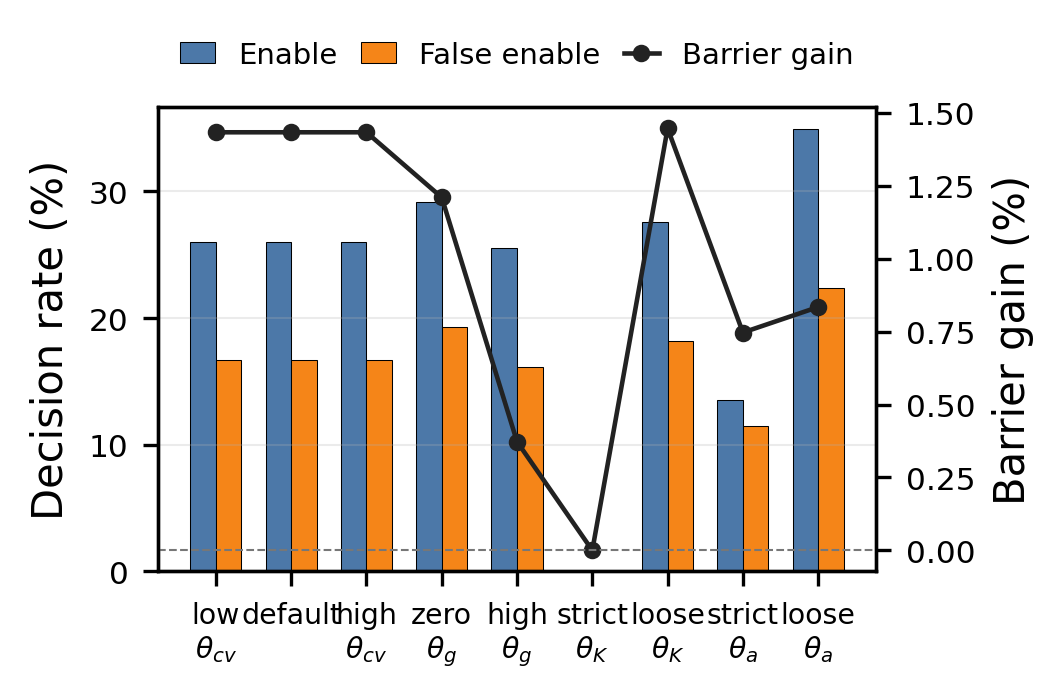
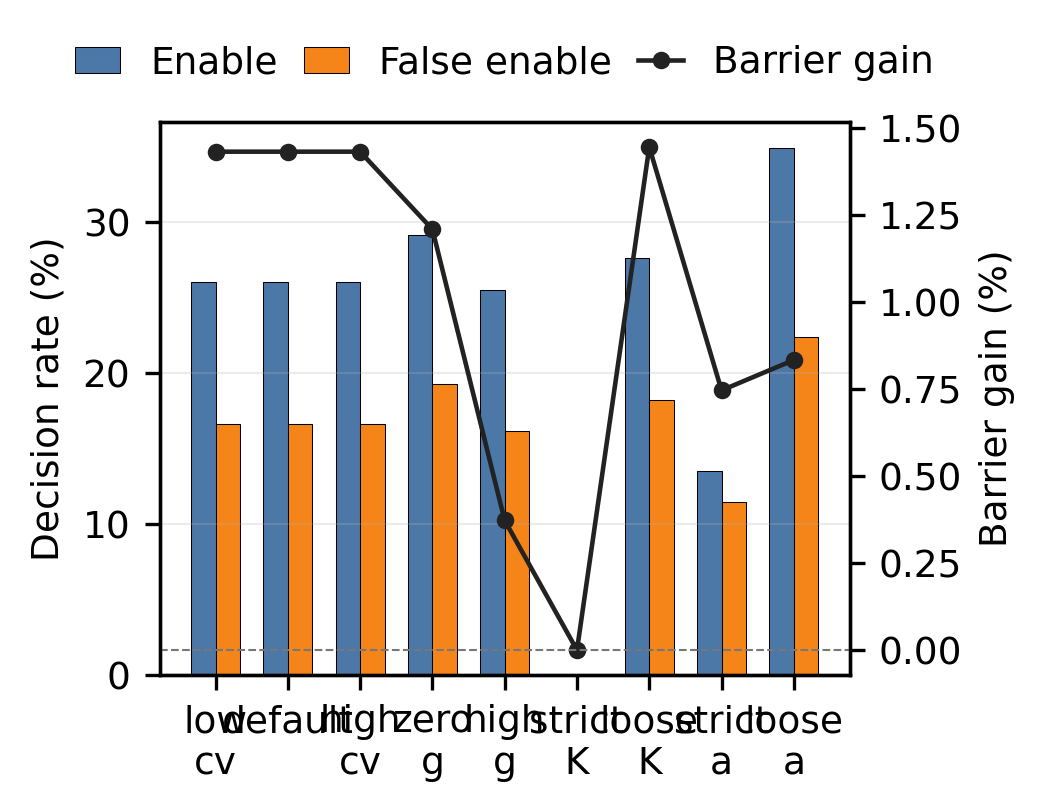
Raise paper table and figure fonts

Changed region(s): [[0.0306, 0.1203, 0.9799, 0.9628], [0.0612, 0.0602, 0.888, 0.0903], [0.3062, 0.4513, 0.3368, 0.4814]]

diff --git a/paper/socc26/sections/evaluation.tex b/paper/socc26/sections/evaluation.tex
@@ -22,81 +22,53 @@ success.
 
 \begin{table*}[t]
   \centering
-  \scriptsize
-  \renewcommand{\arraystretch}{0.93}
-  \setlength{\tabcolsep}{1.0pt}
   \caption{Main external comparison.}
   \label{tab:external-main}
-  \begin{tabular}{@{}llrrrrrrrrrrrr@{}}
+  \begin{tabular*}{\textwidth}{@{\extracolsep{\fill}}lllrrrrrr@{}}
     \toprule
-    Runtime & Metric &
-    \multicolumn{4}{c}{W8} &
-    \multicolumn{4}{c}{W16} &
-    \multicolumn{4}{c}{W24} \\
-    \cmidrule(lr){3-6}\cmidrule(lr){7-10}\cmidrule(l){11-14}
-    & & SFCL & RLTune & Sailor & \textsc{G-port}
-      & SFCL & RLTune & Sailor & \textsc{G-port}
-      & SFCL & RLTune & Sailor & \textsc{G-port} \\
+    Runtime & Workers & Method & Mean & p95 & Thr. & Post & Cancel & Succ. \\
+            &         &        & (ms) & (ms) & (iter/s) & rows & (ms) & \\
     \midrule
-    TCP & Mean (ms) & 44.0 & 48.2 & 53.9 & \textbf{40.9}
-        & 38.3 & 36.4 & \textbf{35.3} & 36.6
-        & 47.5 & 48.3 & 44.3 & \textbf{43.7} \\
-    TCP & p95 (ms) & 80.5 & 76.6 & 77.8 & \textbf{71.5}
-        & \textbf{48.3} & 59.1 & 59.5 & 60.0
-        & 62.3 & \textbf{59.9} & 61.1 & 61.1 \\
-    TCP & Thr. (iter/s) & 22.7 & 20.8 & 18.6 & \textbf{24.4}
-        & 26.1 & 27.4 & \textbf{28.3} & 27.4
-        & 21.1 & 20.7 & 22.6 & \textbf{22.9} \\
-    TCP & Post rows & 1.8 & 0.1 & 0.0 & 1.6
-        & 10.4 & 1.4 & 0.0 & 4.1
-        & 21.9 & 2.8 & 0.0 & 1.7 \\
-    TCP & Cancel (ms) & 16.8 & 16.5 & 19.2 & 14.1
-        & 16.5 & 16.5 & 16.3 & 16.9
-        & 21.4 & 24.2 & 21.8 & 20.5 \\
-    TCP & Succ. & 1.00 & 1.00 & 1.00 & 1.00
-        & 1.00 & 1.00 & 1.00 & 1.00
-        & 1.00 & 1.00 & 1.00 & 1.00 \\
+    TCP & W8 & SFCL & 44.0 & 80.5 & 22.7 & 1.8 & 16.8 & 1.00 \\
+        &    & RLTune & 48.2 & 76.6 & 20.8 & 0.1 & 16.5 & 1.00 \\
+        &    & Sailor & 53.9 & 77.8 & 18.6 & 0.0 & 19.2 & 1.00 \\
+        &    & \textsc{G-port} & \textbf{40.9} & \textbf{71.5} & \textbf{24.4} & 1.6 & 14.1 & 1.00 \\
+        & W16 & SFCL & 38.3 & \textbf{48.3} & 26.1 & 10.4 & 16.5 & 1.00 \\
+        &     & RLTune & 36.4 & 59.1 & 27.4 & 1.4 & 16.5 & 1.00 \\
+        &     & Sailor & \textbf{35.3} & 59.5 & \textbf{28.3} & 0.0 & 16.3 & 1.00 \\
+        &     & \textsc{G-port} & 36.6 & 60.0 & 27.4 & 4.1 & 16.9 & 1.00 \\
+        & W24 & SFCL & 47.5 & 62.3 & 21.1 & 21.9 & 21.4 & 1.00 \\
+        &     & RLTune & 48.3 & \textbf{59.9} & 20.7 & 2.8 & 24.2 & 1.00 \\
+        &     & Sailor & 44.3 & 61.1 & 22.6 & 0.0 & 21.8 & 1.00 \\
+        &     & \textsc{G-port} & \textbf{43.7} & 61.1 & \textbf{22.9} & 1.7 & 20.5 & 1.00 \\
     \midrule
-    TCP+stress & Mean (ms) & 49.4 & 55.6 & 56.3 & \textbf{48.4}
-        & 53.2 & 53.1 & 53.3 & \textbf{53.1}
-        & 60.9 & 65.4 & 55.5 & \textbf{53.9} \\
-    TCP+stress & p95 (ms) & 88.6 & 86.0 & 89.9 & \textbf{73.9}
-        & \textbf{71.0} & 77.0 & 71.2 & 83.9
-        & 93.3 & 137.5 & 67.6 & \textbf{61.2} \\
-    TCP+stress & Thr. (iter/s) & 20.2 & 18.0 & 17.8 & \textbf{20.7}
-        & 18.8 & 18.8 & 18.7 & \textbf{18.8}
-        & 16.4 & 15.3 & 18.0 & \textbf{18.5} \\
-    TCP+stress & Post rows & 1.4 & 0.3 & 0.0 & 1.6
-        & 9.8 & 1.5 & 0.0 & 0.0
-        & 21.0 & 4.1 & 0.0 & 0.0 \\
-    TCP+stress & Cancel (ms) & 15.2 & 17.1 & 15.8 & 15.2
-        & 23.6 & 22.5 & 22.2 & 22.2
-        & 27.2 & 29.8 & 23.9 & 23.7 \\
-    TCP+stress & Succ. & 1.00 & 1.00 & 1.00 & 1.00
-        & 1.00 & 1.00 & 1.00 & 1.00
-        & 1.00 & 1.00 & 1.00 & 1.00 \\
+    TCP+stress & W8 & SFCL & 49.4 & 88.6 & 20.2 & 1.4 & 15.2 & 1.00 \\
+        &    & RLTune & 55.6 & 86.0 & 18.0 & 0.3 & 17.1 & 1.00 \\
+        &    & Sailor & 56.3 & 89.9 & 17.8 & 0.0 & 15.8 & 1.00 \\
+        &    & \textsc{G-port} & \textbf{48.4} & \textbf{73.9} & \textbf{20.7} & 1.6 & 15.2 & 1.00 \\
+        & W16 & SFCL & 53.2 & \textbf{71.0} & 18.8 & 9.8 & 23.6 & 1.00 \\
+        &     & RLTune & 53.1 & 77.0 & 18.8 & 1.5 & 22.5 & 1.00 \\
+        &     & Sailor & 53.3 & 71.2 & 18.7 & 0.0 & 22.2 & 1.00 \\
+        &     & \textsc{G-port} & \textbf{53.1} & 83.9 & \textbf{18.8} & 0.0 & 22.2 & 1.00 \\
+        & W24 & SFCL & 60.9 & 93.3 & 16.4 & 21.0 & 27.2 & 1.00 \\
+        &     & RLTune & 65.4 & 137.5 & 15.3 & 4.1 & 29.8 & 1.00 \\
+        &     & Sailor & 55.5 & 67.6 & 18.0 & 0.0 & 23.9 & 1.00 \\
+        &     & \textsc{G-port} & \textbf{53.9} & \textbf{61.2} & \textbf{18.5} & 0.0 & 23.7 & 1.00 \\
     \midrule
-    K3s & Mean (ms) & 22.7 & 28.0 & 29.0 & \textbf{19.6}
-        & 14.5 & 9.8 & \textbf{9.4} & 11.3
-        & 15.7 & 12.8 & \textbf{12.4} & 12.4 \\
-    K3s & p95 (ms) & 60.3 & 55.5 & 54.4 & \textbf{42.0}
-        & 16.3 & 10.9 & \textbf{10.2} & 16.0
-        & 17.6 & 14.8 & 13.3 & \textbf{13.2} \\
-    K3s & Thr. (iter/s) & 44.0 & 35.7 & 34.5 & \textbf{51.0}
-        & 69.1 & 102.0 & \textbf{106.7} & 88.3
-        & 63.6 & 78.2 & \textbf{80.8} & 80.5 \\
-    K3s & Post rows & 0.4 & 0.0 & 0.0 & 0.4
-        & 3.4 & 1.3 & 0.0 & 1.5
-        & 8.9 & 2.5 & 0.0 & 0.0 \\
-    K3s & Cancel (ms) & 1.7 & 1.6 & 1.6 & 1.7
-        & 3.6 & 3.2 & 2.9 & 3.2
-        & 5.6 & 4.6 & 4.3 & 4.3 \\
-    K3s & Succ. & 1.00 & 1.00 & 1.00 & 1.00
-        & 1.00 & 1.00 & 1.00 & 1.00
-        & 1.00 & 1.00 & 1.00 & 1.00 \\
+    K3s & W8 & SFCL & 22.7 & 60.3 & 44.0 & 0.4 & 1.7 & 1.00 \\
+        &    & RLTune & 28.0 & 55.5 & 35.7 & 0.0 & 1.6 & 1.00 \\
+        &    & Sailor & 29.0 & 54.4 & 34.5 & 0.0 & 1.6 & 1.00 \\
+        &    & \textsc{G-port} & \textbf{19.6} & \textbf{42.0} & \textbf{51.0} & 0.4 & 1.7 & 1.00 \\
+        & W16 & SFCL & 14.5 & 16.3 & 69.1 & 3.4 & 3.6 & 1.00 \\
+        &     & RLTune & 9.8 & 10.9 & 102.0 & 1.3 & 3.2 & 1.00 \\
+        &     & Sailor & \textbf{9.4} & \textbf{10.2} & \textbf{106.7} & 0.0 & 2.9 & 1.00 \\
+        &     & \textsc{G-port} & 11.3 & 16.0 & 88.3 & 1.5 & 3.2 & 1.00 \\
+        & W24 & SFCL & 15.7 & 17.6 & 63.6 & 8.9 & 5.6 & 1.00 \\
+        &     & RLTune & 12.8 & 14.8 & 78.2 & 2.5 & 4.6 & 1.00 \\
+        &     & Sailor & \textbf{12.4} & 13.3 & \textbf{80.8} & 0.0 & 4.3 & 1.00 \\
+        &     & \textsc{G-port} & 12.4 & \textbf{13.2} & 80.5 & 0.0 & 4.3 & 1.00 \\
     \bottomrule
-  \end{tabular}
-  \renewcommand{\arraystretch}{1.0}
+  \end{tabular*}
 \end{table*}
 
 The table makes the runtime boundary explicit: the same adapter set runs under
@@ -121,13 +93,11 @@ selector.  \emph{w/o portfolio} disables the cross-policy wrapper and runs the
 coded-only \textsc{Guard-D} arm.  Each cell is mean latency / post-decode rows /
 cancellation time; lower is better.
 
-\begin{table}[t]
+\begin{table*}[t]
   \centering
-  \footnotesize
-  \setlength{\tabcolsep}{2.4pt}
   \caption{\textsc{G-port} ablations.}
   \label{tab:gport-ablation}
-  \begin{tabular}{@{}llccc@{}}
+  \begin{tabular*}{\textwidth}{@{\extracolsep{\fill}}llccc@{}}
     \toprule
     Runtime & Ablation & W8 & W16 & W24 \\
     \midrule
@@ -148,8 +118,8 @@ cancellation time; lower is better.
         & w/o code        & 28.0/0.0/1.6 & 9.8/1.3/3.2 & 12.8/2.5/4.6 \\
         & w/o portfolio   & 20.3/0.5/1.7 & 14.2/3.6/3.6 & 15.9/9.1/5.7 \\
     \bottomrule
-  \end{tabular}
-\end{table}
+  \end{tabular*}
+\end{table*}
 
 The ablation shows why the full controller is useful.  Speed/cost scheduling is
 strong when speed dominates (K3s W16/W24) but fragile at W8 and under TCP stress.
@@ -171,23 +141,21 @@ competitive at W8, but it loses the cross-policy fallback that protects
 
 \begin{table}[t]
   \centering
-  \small
-  \setlength{\tabcolsep}{3.0pt}
   \caption{Figure~\ref{fig:guard-thresholds} settings.}
   \label{tab:guard-threshold-settings}
   \begin{tabular}{@{}lrrrr@{}}
     \toprule
-    Label & $\theta_{\mathrm{cv}}$ & $\theta_g$ & $\theta_K$ & $\theta_a$ \\
+    Label & theta-cv & theta-g & theta-K & theta-a \\
     \midrule
-    low $\theta_{\mathrm{cv}}$ & 0.10 & 0.01 & 0 & 1 \\
+    low theta-cv & 0.10 & 0.01 & 0 & 1 \\
     default & 0.20 & 0.01 & 0 & 1 \\
-    high $\theta_{\mathrm{cv}}$ & 0.35 & 0.01 & 0 & 1 \\
-    zero $\theta_g$ & 0.20 & 0.00 & 0 & 1 \\
-    high $\theta_g$ & 0.20 & 0.03 & 0 & 1 \\
-    strict $\theta_K$ & 0.20 & 0.01 & -1 & 1 \\
-    loose $\theta_K$ & 0.20 & 0.01 & 1 & 1 \\
-    strict $\theta_a$ & 0.20 & 0.01 & 0 & 0 \\
-    loose $\theta_a$ & 0.20 & 0.01 & 0 & 2 \\
+    high theta-cv & 0.35 & 0.01 & 0 & 1 \\
+    zero theta-g & 0.20 & 0.00 & 0 & 1 \\
+    high theta-g & 0.20 & 0.03 & 0 & 1 \\
+    strict theta-K & 0.20 & 0.01 & -1 & 1 \\
+    loose theta-K & 0.20 & 0.01 & 1 & 1 \\
+    strict theta-a & 0.20 & 0.01 & 0 & 0 \\
+    loose theta-a & 0.20 & 0.01 & 0 & 2 \\
     \bottomrule
   \end{tabular}
 \end{table}
@@ -196,10 +164,10 @@ Figure~\ref{fig:guard-thresholds} replays small threshold changes on paired K3s
 guard rounds, and Table~\ref{tab:guard-threshold-settings} maps each x-axis
 label to the guard rule.  Each non-default setting changes one gate while
 holding the other three at the deployed default.  Here
-$\theta_{\mathrm{cv}}$ gates worker-speed heterogeneity, $\theta_g$ gates
-predicted first-decode gain, $\theta_K$ gates the candidate-minus-fallback
-first-decodable prefix delta, and $\theta_a$ gates rows of work completed after
-decode.  Lower $\theta_K$ or $\theta_a$ values are stricter because they allow
+theta-cv gates worker-speed heterogeneity, theta-g gates
+predicted first-decode gain, theta-K gates the candidate-minus-fallback
+first-decodable prefix delta, and theta-a gates rows of work completed after
+decode.  Lower theta-K or theta-a values are stricter because they allow
 less prefix growth or post-decode work.  Bars report enable decision rate and
 false-enable rate; the line shows barrier gain.  Stricter thresholds reduce
 false enables but also leave useful opportunities unused, so the default is a
@@ -217,8 +185,7 @@ closed-worker errors and bounded reissues per round.
 
 \begin{table}[t]
   \centering
-  \footnotesize
-  \setlength{\tabcolsep}{1.5pt}
+  \setlength{\tabcolsep}{1.0pt}
   \caption{K3s W24 recovery counters.}
   \label{tab:k8s-stress}
   \begin{tabular}{@{}llrrrrrr@{}}
@@ -267,8 +234,7 @@ earlier.  The cheap runtime score helps p95 but not mean latency, so
 
 \begin{table}[t]
   \centering
-  \footnotesize
-  \setlength{\tabcolsep}{2.2pt}
+  \setlength{\tabcolsep}{1.0pt}
   \caption{Offline row-exposure replay.}
   \label{tab:score-diagnostic}
   \begin{tabular}{@{}lrrrrr@{}}

diff --git a/analyze_guard_prediction.py b/analyze_guard_prediction.py
@@ -643,17 +643,21 @@ def write_threshold_sensitivity_figure(
         return
     sub["order"] = sub["setting"].apply(lambda x: order.index(x) if x in order else 99)
     sub = sub.sort_values("order")
-    labels = [
-        str(label)
-        .replace(" $\\theta_{cv}$", "\n$\\theta_{cv}$")
-        .replace(" $\\theta_g$", "\n$\\theta_g$")
-        .replace(" $\\theta_K$", "\n$\\theta_K$")
-        .replace(" $\\theta_a$", "\n$\\theta_a$")
-        for label in sub["setting"]
-    ]
+    label_map = {
+        "low $\\theta_{cv}$": "low\ncv",
+        "default": "default",
+        "high $\\theta_{cv}$": "high\ncv",
+        "zero $\\theta_g$": "zero\ng",
+        "high $\\theta_g$": "high\ng",
+        "strict $\\theta_K$": "strict\nK",
+        "loose $\\theta_K$": "loose\nK",
+        "strict $\\theta_a$": "strict\na",
+        "loose $\\theta_a$": "loose\na",
+    }
+    labels = [label_map.get(str(label), str(label).replace(" ", "\n")) for label in sub["setting"]]
     x = np.arange(len(sub))
     width = 0.34
-    fig, ax = plt.subplots(figsize=(3.35, 2.25))
+    fig, ax = plt.subplots(figsize=(3.35, 2.70))
     ax.bar(
         x - width / 2,
         100.0 * sub["enable_rate"],
@@ -672,11 +676,11 @@ def write_threshold_sensitivity_figure(
         edgecolor="black",
         linewidth=0.25,
     )
-    ax.set_ylabel("Decision rate (%)")
+    ax.set_ylabel("Decision rate (%)", fontsize=9)
     ax.set_ylim(bottom=0)
     ax.set_xticks(x)
-    ax.set_xticklabels(labels, rotation=0, ha="center", fontsize=6.8)
-    ax.tick_params(axis="y", labelsize=7.5)
+    ax.set_xticklabels(labels, rotation=0, ha="center", fontsize=9)
+    ax.tick_params(axis="y", labelsize=9)
     ax.grid(axis="y", alpha=0.25, linewidth=0.5)
 
     ax2 = ax.twinx()
@@ -689,8 +693,8 @@ def write_threshold_sensitivity_figure(
         linewidth=1.1,
         label="Barrier gain",
     )
-    ax2.set_ylabel("Barrier gain (%)")
-    ax2.tick_params(axis="y", labelsize=7.5)
+    ax2.set_ylabel("Barrier gain (%)", fontsize=9)
+    ax2.tick_params(axis="y", labelsize=9)
     ax2.axhline(0.0, color="#777777", linewidth=0.5, linestyle="--")
 
     handles1, labels1 = ax.get_legend_handles_labels()
@@ -702,11 +706,11 @@ def write_threshold_sensitivity_figure(
         bbox_to_anchor=(0.5, 1.20),
         ncol=3,
         frameon=False,
-        fontsize=7.0,
+        fontsize=9,
         handlelength=1.2,
-        columnspacing=0.8,
+        columnspacing=0.7,
     )
-    fig.tight_layout(pad=0.25)
+    fig.tight_layout(pad=0.45)
 
     destinations = [out_dir]
     if paper_figures_dir is not None:

diff --git a/paper/socc26/figures/figure1_architecture_standalone.tex b/paper/socc26/figures/figure1_architecture_standalone.tex
@@ -5,7 +5,7 @@
 
 \begin{document}
 \begin{tikzpicture}[
-  font=\footnotesize,
+  font=\normalsize,
   x=1mm,
   y=1mm,
   stage/.style={draw, rounded corners=2pt, very thick, align=center,
@@ -38,8 +38,8 @@
   \draw[arrow] (shards) -- (rows);
   \draw[arrow] (rows) -- (sets);
   \draw[arrow] (features) -- (guard);
-  \draw[arrow] (guard) -- node[above, font=\scriptsize] {enable} (assign);
-  \draw[weakarrow] (guard.south) |- ++(8,-7) -| node[pos=0.25, below, font=\scriptsize] {fallback}
+  \draw[arrow] (guard) -- node[above] {enable} (assign);
+  \draw[weakarrow] (guard.south) |- ++(8,-7) -| node[pos=0.25, below] {fallback}
     (features.south);
   \draw[arrow] (assign.east) -- (w1.west);
   \draw[arrow] (assign.east) -- (w2.west);
@@ -47,9 +47,9 @@
   \draw[arrow] (w1.east) -- (monitor.west);
   \draw[arrow] (w2.east) -- (monitor.west);
   \draw[arrow] (w3.east) -- (monitor.west);
-  \draw[arrow] (sets.south) |- node[pos=0.25, right, font=\scriptsize] {decodability test}
+  \draw[arrow] (sets.south) |- node[pos=0.25, right] {decodability test}
     (monitor.north);
-  \draw[weakarrow] (monitor.south) |- node[pos=0.25, right, font=\scriptsize] {counters}
+  \draw[weakarrow] (monitor.south) |- node[pos=0.25, right] {counters}
     (guard.south);
 \end{tikzpicture}
 \end{document}

diff --git a/paper/socc26/sections/background.tex b/paper/socc26/sections/background.tex
@@ -107,7 +107,7 @@ communication, and cancellation costs.
 \begin{figure}[t]
   \centering
   \begin{tikzpicture}[
-      font=\footnotesize,
+      font=\normalsize,
       row/.style={draw, rounded corners=1pt, align=center,
         minimum width=0.58cm, minimum height=0.40cm, inner sep=1pt},
       crit/.style={row, fill=green!11, draw=green!50!black, very thick},
@@ -116,13 +116,13 @@ communication, and cancellation costs.
         align=center, inner sep=2pt, text width=1.55cm},
       note/.style={draw, rounded corners=1.5pt, align=center, inner sep=2pt,
         fill=orange!7, draw=orange!60!black},
-      head/.style={font=\scriptsize\bfseries, align=center},
+      head/.style={font=\bfseries, align=center},
       sep/.style={gray!45, line width=0.25pt}
     ]
     \node[note, text width=7.0cm] at (3.45,0)
       {Fixed code unchanged: decode when both green rows $r_2$ and $r_5$ have arrived};
 
-    \node[head, anchor=east, text width=1.15cm] at (0.72,-0.82) {completion\\prefix};
+    \node[head, anchor=east, text width=1.15cm] at (0.72,-0.82) {prefix};
     \node[head] at (1.35,-0.82) {\#1};
     \node[head] at (2.12,-0.82) {\#2};
     \node[head] at (2.89,-0.82) {\#3};

diff --git a/paper/socc26/sections/setup.tex b/paper/socc26/sections/setup.tex
@@ -125,8 +125,8 @@ ablation chooses the cheaper predicted safe baseline between speed-aware
 uncoded and static coded placement before the round.  Paired safe-baseline
 replays over logged diagnostics estimate fallback headroom; they do not relabel
 deployed K3s traces.  Unless stated otherwise,
-the guard thresholds are $\theta_{\mathrm{cv}}=0.20$, $\theta_g=0.01$,
-$\theta_K=0$ rows, and $\theta_a=1$ row; the EMA update weight is
+the guard thresholds are theta-cv = 0.20, theta-g = 0.01,
+theta-K = 0 rows, and theta-a = 1 row; the EMA update weight is
 $\alpha_{\mathrm{ema}}=0.30$ and the fallback decay is $\lambda=0.80$.
 
 \subsection{Runtime Prototypes}